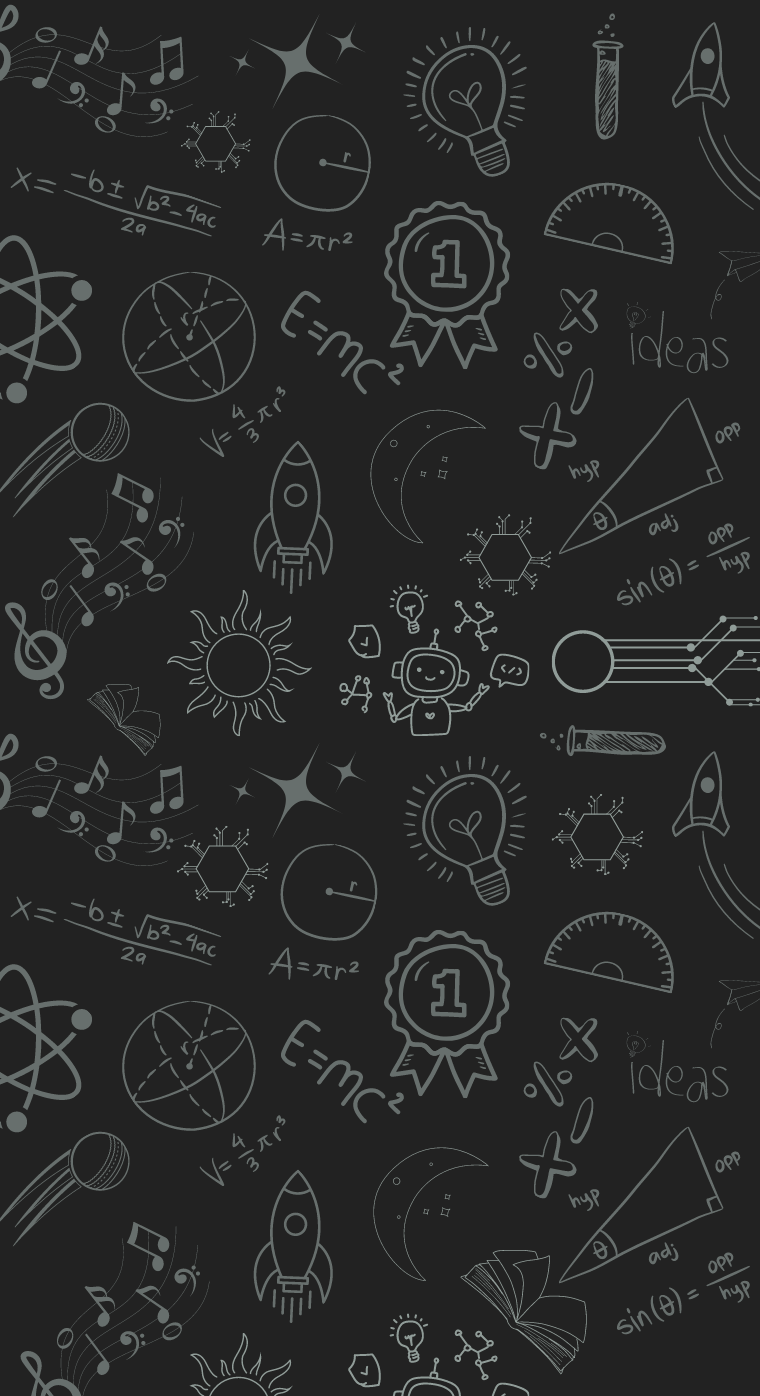
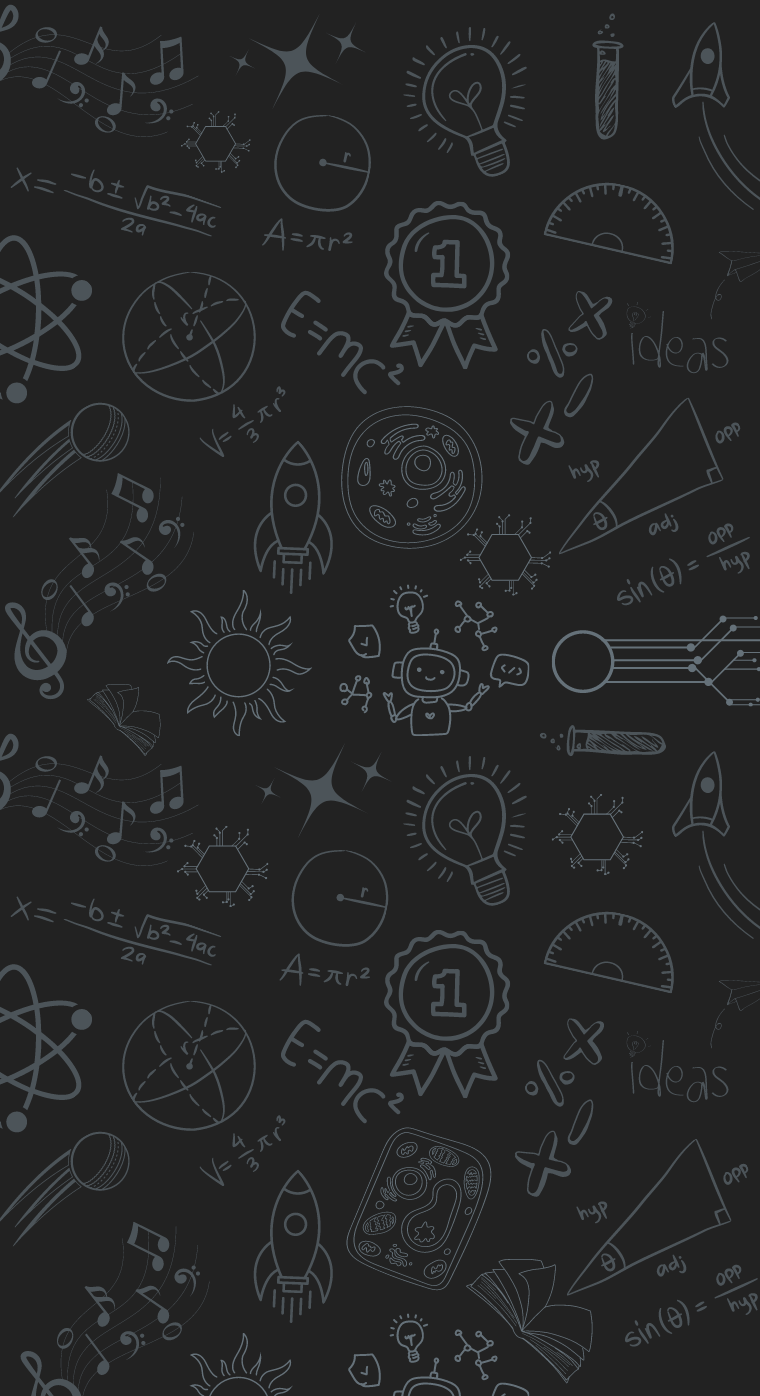
almost complete

diff --git a/lib/view/result_statistics/widget/line_chart.dart b/lib/view/result_statistics/widget/line_chart.dart
@@ -22,19 +22,22 @@ class LineChartSample2 extends StatelessWidget {
     return AspectRatio(
       aspectRatio: 1,
       child: Padding(
-          padding: const EdgeInsets.only(
-            right: 16,
-            left: 0,
-            top: 24,
-            bottom: 20,
-          ),
-          child: GetBuilder<LineChartController>(builder: (lController) {
+        padding: const EdgeInsets.only(
+          right: 16,
+          left: 0,
+          top: 54,
+          bottom: 20,
+        ),
+        child: GetBuilder<LineChartController>(
+          builder: (lController) {
             return LineChart(
               lController.showAvg.value
                   ? avgData(controller, lController, gradientColors)
                   : mainData(controller, gradientColors),
             );
-          })),
+          },
+        ),
+      ),
     );
   }
 
@@ -79,35 +82,20 @@ class LineChartSample2 extends StatelessWidget {
     );
 
     String text;
-    switch (value) {
+    switch (value.toDouble()) {
       case 0:
         text = '0.0';
         break;
       case 1:
-        text = '2.0';
+        text = '1.0';
         break;
       case 2:
-        text = '2.25';
+        text = '2.0';
         break;
       case 3:
-        text = '2.5';
-        break;
-      case 4:
-        text = '2.75';
-        break;
-      case 5:
         text = '3.0';
         break;
-      case 6:
-        text = '3.25';
-        break;
-      case 7:
-        text = '3.5';
-        break;
-      case 8:
-        text = '3.75';
-        break;
-      case 9:
+      case 4:
         text = '4.0';
         break;
       default:
@@ -120,6 +108,10 @@ class LineChartSample2 extends StatelessWidget {
   LineChartData mainData(
       SemesterResultController controller, List<Color> gradientColors) {
     return LineChartData(
+      minX: .8,
+      maxX: controller.semesterNameCg.length.toDouble(),
+      minY: 0,
+      maxY: 4,
       gridData: FlGridData(
         show: true,
         drawVerticalLine: false,
@@ -128,7 +120,7 @@ class LineChartSample2 extends StatelessWidget {
         getDrawingHorizontalLine: (value) {
           return const FlLine(
             color: AppColors.mainGridLineColor,
-            strokeWidth: 1,
+            strokeWidth: 2,
           );
         },
       ),
@@ -162,10 +154,6 @@ class LineChartSample2 extends StatelessWidget {
         show: false,
         border: Border.all(color: const Color(0xff37434d)),
       ),
-      minX: .8,
-      maxX: controller.semesterNameCg.length.toDouble(),
-      minY: 0,
-      maxY: 10,
       lineBarsData: [
         LineChartBarData(
           spots: List.generate(
@@ -196,6 +184,10 @@ class LineChartSample2 extends StatelessWidget {
   LineChartData avgData(SemesterResultController controller,
       LineChartController lineController, List<Color> gradientColors) {
     return LineChartData(
+      minX: .8,
+      maxX: controller.semesterNameCg.length.toDouble(),
+      minY: 0,
+      maxY: 4,
       gridData: FlGridData(
         show: true,
         drawVerticalLine: false,
@@ -204,7 +196,7 @@ class LineChartSample2 extends StatelessWidget {
         getDrawingHorizontalLine: (value) {
           return const FlLine(
             color: AppColors.mainGridLineColor,
-            strokeWidth: 1,
+            strokeWidth: 2,
           );
         },
       ),
@@ -238,19 +230,13 @@ class LineChartSample2 extends StatelessWidget {
         show: false,
         border: Border.all(color: const Color(0xff37434d)),
       ),
-      minX: .8,
-      maxX: controller.semesterNameCg.length.toDouble() + 1,
-      minY: 0,
-      maxY: 10,
       lineBarsData: [
         LineChartBarData(
           spots: List.generate(
             controller.semesterNameCg.length,
             (index) {
               return FlSpot(
-                index.toDouble() + 1,
-                controller.cgpa.toPrecision(2),
-              );
+                  index.toDouble() + 1, controller.cgpa.toPrecision(2));
             },
           ),
           isCurved: true,
@@ -261,14 +247,9 @@ class LineChartSample2 extends StatelessWidget {
           belowBarData: BarAreaData(
             show: true,
             gradient: LinearGradient(
-              colors: [
-                ColorTween(begin: gradientColors[0], end: gradientColors[1])
-                    .lerp(0.2)!
-                    .withOpacity(0.1),
-                ColorTween(begin: gradientColors[0], end: gradientColors[1])
-                    .lerp(0.2)!
-                    .withOpacity(0.1),
-              ],
+              colors: gradientColors
+                  .map((color) => color.withOpacity(0.3))
+                  .toList(),
             ),
           ),
         ),

diff --git a/lib/view/over_all_result_screen/widget/all_semester_cgpa_grid.dart b/lib/view/over_all_result_screen/widget/all_semester_cgpa_grid.dart
@@ -1,5 +1,7 @@
+import 'package:diu_result/utils/common/widget/custom_route.dart';
 import 'package:flutter/material.dart';
 import 'package:get/get.dart';
+import 'package:lottie/lottie.dart';
 import '../../../controller/semester_result_controller.dart';
 import '../../../model/semester_result_model.dart';
 import '../../../utils/const/color.dart';
@@ -31,14 +33,28 @@ class AllSemesterCgpaGrid extends StatelessWidget {
           }
 
           if (controller.allSemesterResults.isEmpty) {
-            return const Center(
-              child: Text(
-                'Search Your Result',
-                style: TextStyle(color: Colors.white),
+            return Center(
+              child: SingleChildScrollView(
+                child: Padding(
+                  padding: const EdgeInsets.only(bottom: 100.0),
+                  child: Column(
+                    mainAxisAlignment: MainAxisAlignment.center,
+                    children: [
+                      Lottie.asset(
+                        'assets/4.json',
+                        width: MediaQuery.sizeOf(context).width * .8,
+                        height: MediaQuery.sizeOf(context).height * .4,
+                        fit: BoxFit.fitWidth,
+                      ),
+                      const Text('Search your result'),
+                    ],
+                  ),
+                ),
               ),
             );
           }
           return GridView.builder(
+            // physics: const NeverScrollableScrollPhysics(),
             itemCount: controller.allSemesterResults.length,
             gridDelegate: const SliverGridDelegateWithFixedCrossAxisCount(
               crossAxisCount: 2,
@@ -58,15 +74,19 @@ class AllSemesterCgpaGrid extends StatelessWidget {
               double? cgpa = semesterResults.first.cgpa;
 
               return GestureDetector(
-                onTap: () => Get.to(
-                  () => DetailsResultScreen(
-                    result: semesterResults,
-                    semesterNameYear: semesterNameYear,
+                onTap: () => Navigator.push(
+                  context,
+                  CustomRoute(
+                    page: DetailsResultScreen(
+                      result: semesterResults,
+                      semesterNameYear: semesterNameYear,
+                    ),
                   ),
                 ),
                 child: Container(
                   decoration: BoxDecoration(
                     color: CColor.offDark,
+                    border: Border.all(color: Colors.grey.shade700),
                     borderRadius: BorderRadius.circular(16),
                   ),
                   child: Center(

diff --git a/lib/view/over_all_result_screen/over_all_result_screen.dart b/lib/view/over_all_result_screen/over_all_result_screen.dart
@@ -15,27 +15,38 @@ class OverAllResultScreen extends StatelessWidget {
       body: Stack(
         children: [
           const BackGround(),
-          SafeArea(
-            child: Padding(
-              padding: const EdgeInsets.symmetric(horizontal: 16, vertical: 8),
-              child: GetBuilder<PersonalInfoController>(builder: (controller) {
-                return Column(
-                  children: [
-                    Text(
-                      'DIU Result',
-                      style: Theme.of(context).textTheme.headlineMedium,
-                    ),
-                    const SizedBox(height: 16),
-                    CustomSearchField(),
-                    const SizedBox(height: 16),
-                    controller.personalInfoModel.studentId == null
-                        ? const SizedBox.shrink()
-                        : const PersonalInfoCard(),
-                    const SizedBox(height: 16),
-                    const AllSemesterCgpaGrid(),
-                  ],
-                );
-              }),
+          GestureDetector(
+            onTap: () {
+              FocusScopeNode currentFocus = FocusScope.of(context);
+              if (!currentFocus.hasPrimaryFocus) {
+                currentFocus.focusedChild?.unfocus();
+              }
+            },
+            child: SafeArea(
+              child: Padding(
+                padding:
+                    const EdgeInsets.symmetric(horizontal: 16, vertical: 8),
+                child: GetBuilder<PersonalInfoController>(
+                  builder: (controller) {
+                    return Column(
+                      children: [
+                        Text(
+                          'DIU Result',
+                          style: Theme.of(context).textTheme.headlineMedium,
+                        ),
+                        const SizedBox(height: 16),
+                        CustomSearchField(),
+                        const SizedBox(height: 16),
+                        controller.personalInfoModel.studentId == null
+                            ? const SizedBox.shrink()
+                            : const PersonalInfoCard(),
+                        const SizedBox(height: 16),
+                        const AllSemesterCgpaGrid(),
+                      ],
+                    );
+                  },
+                ),
+              ),
             ),
           ),
         ],

diff --git a/lib/view/over_all_result_screen/widget/personal_info_card.dart b/lib/view/over_all_result_screen/widget/personal_info_card.dart
@@ -1,5 +1,6 @@
 import 'package:animated_text_kit/animated_text_kit.dart';
 import 'package:diu_result/controller/personal_info_controller.dart';
+import 'package:diu_result/utils/common/widget/custom_route.dart';
 import 'package:diu_result/view/over_all_result_screen/widget/card_shimmer_effect.dart';
 import 'package:diu_result/view/result_statistics/result_statistics_screen.dart';
 import 'package:flutter/material.dart';
@@ -20,9 +21,17 @@ class PersonalInfoCard extends StatelessWidget {
           return const CardShimmerEffect();
         }
         return GestureDetector(
-          onTap: () => Get.to(() => const ResultStatisticsScreen()),
-          child: SizedBox(
-            width: double.infinity,
+          // onTap: () => Get.to(() => const ResultStatisticsScreen()),
+          onTap: () => Navigator.push(
+            context,
+            CustomRoute(page: const ResultStatisticsScreen()),
+          ),
+          child: Container(
+            width: MediaQuery.sizeOf(context).width,
+            decoration: BoxDecoration(
+              border: Border.all(color: Colors.grey.shade700),
+              borderRadius: BorderRadius.circular(12),
+            ),
             child: Card(
               margin: EdgeInsets.zero,
               color: CColor.offDark,
@@ -36,9 +45,9 @@ class PersonalInfoCard extends StatelessWidget {
                   children: [
                     Text(
                       'Personal Information',
-                      style: Theme.of(context).textTheme.bodyMedium,
+                      style: Theme.of(context).textTheme.titleMedium,
                     ),
-                    const SizedBox(height: 8),
+                    const SizedBox(height: 6),
                     PersonalInfoText(
                       label: 'Name',
                       data: controller.personalInfoModel.studentName ?? '',

diff --git a/lib/utils/common/widget/custom_route.dart b/lib/utils/common/widget/custom_route.dart
@@ -1,0 +1,24 @@
+import 'package:flutter/cupertino.dart';
+
+class CustomRoute extends PageRouteBuilder {
+  final Widget page;
+
+  CustomRoute({
+    required this.page,
+  }) : super(
+            transitionDuration: const Duration(milliseconds: 700),
+            reverseTransitionDuration: const Duration(milliseconds: 500),
+            pageBuilder: (context, animation, secondaryAnimation) => page);
+
+  @override
+  Widget buildTransitions(BuildContext context, Animation<double> animation,
+      Animation<double> secondaryAnimation, Widget child) {
+    return SlideTransition(
+      position: Tween<Offset>(
+        begin: const Offset(1, 0),
+        end: Offset.zero,
+      ).animate(animation),
+      child: child,
+    );
+  }
+}

diff --git a/lib/view/result_statistics/widget/circular_chart.dart b/lib/view/result_statistics/widget/circular_chart.dart
@@ -1,4 +1,5 @@
 import 'package:diu_result/controller/semester_result_controller.dart';
+import 'package:diu_result/utils/const/app_color.dart';
 import 'package:flutter/material.dart';
 import 'package:get/get.dart';
 import 'package:syncfusion_flutter_gauges/gauges.dart';
@@ -24,7 +25,8 @@ class CircularChart extends StatelessWidget {
               cornerStyle: CornerStyle.bothCurve,
               gradient: const SweepGradient(
                 colors: [
-                  Color(0xFFFF8209),
+                  AppColors.contentColorCyan,
+                  AppColors.contentColorBlue,
                 ],
               ),
             ),

diff --git a/lib/view/over_all_result_screen/widget/card_shimmer_effect.dart b/lib/view/over_all_result_screen/widget/card_shimmer_effect.dart
@@ -27,7 +27,7 @@ class CardShimmerEffect extends StatelessWidget {
               children: [
                 Container(
                   width: 100,
-                  height: 20,
+                  height: 40,
                   color: Colors.grey,
                 ),
                 const SizedBox(height: 8),

diff --git a/lib/utils/background/background.dart b/lib/utils/background/background.dart
@@ -10,7 +10,7 @@ class BackGround extends StatelessWidget {
     return Container(
       decoration: const BoxDecoration(
         image: DecorationImage(
-          image: AssetImage("assets/bgl.png"),
+          image: AssetImage("assets/bg.png"),
           fit: BoxFit.cover,
         ),
       ),
